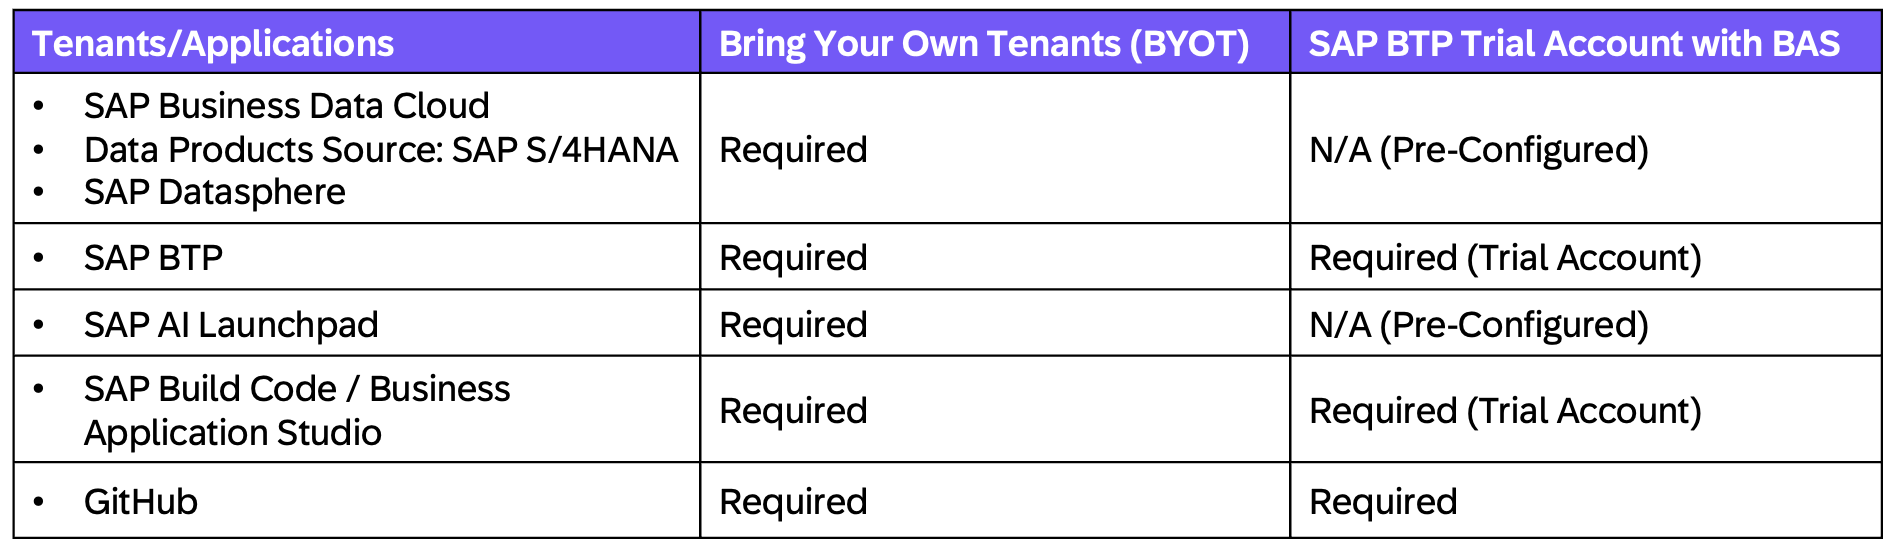
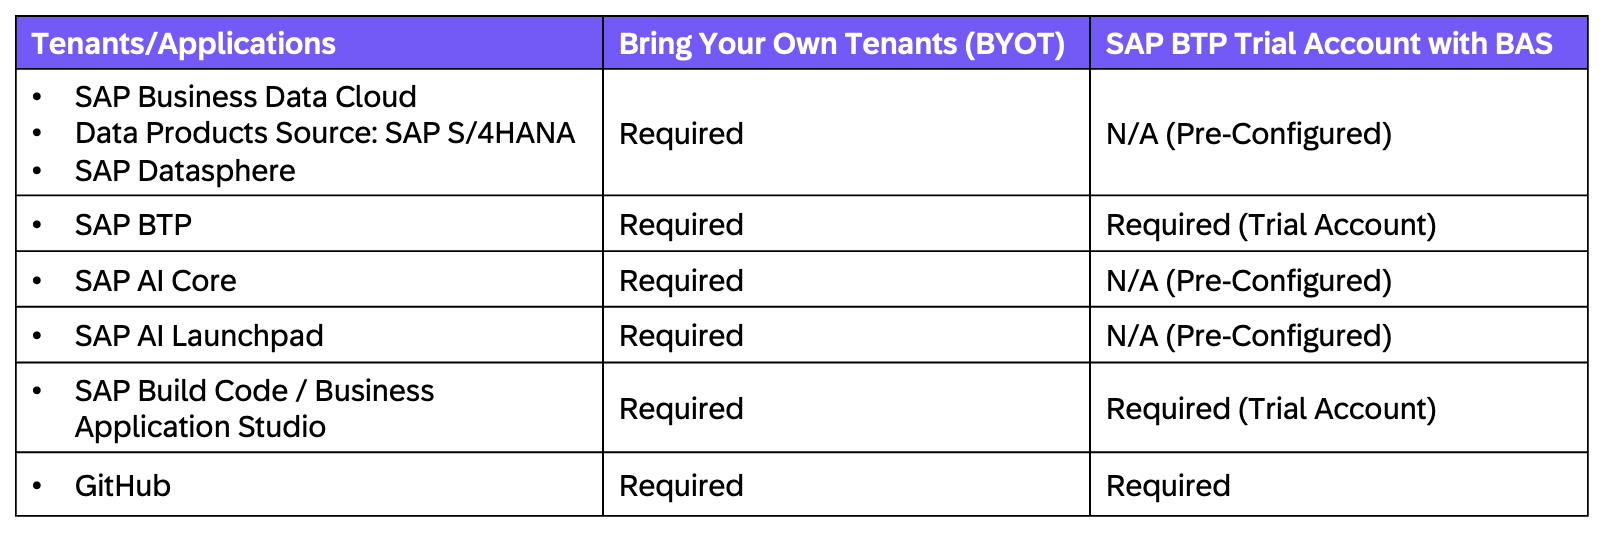
commit changes

Changed region(s): [[0.0, 0.0, 0.9963, 0.9888], [0.3736, 0.7191, 0.467, 0.809]]

diff --git a/module3_exercise_guide.md b/module3_exercise_guide.md
@@ -121,6 +121,41 @@ Before the day of the session, ensure you have access to the required applicatio
 | Business_Application_Studio_Developer | Access BAS dev spaces | Running the Jupyter notebook |
 | Dev Space: Full-Stack Cloud Application | Python runtime, terminal access | Executing notebook cells, creating venv |
 
+### 4. SAP AI Core and Service Key & Credentials
+You need credentials from SAP BTP Cockpit and AI Launchpad to configure the `.env` file.
+
+#### 4a. Get Service Key from BTP Cockpit
+
+1. Open **SAP BTP Cockpit** → navigate to your subaccount.
+2. Go to **Services → Instances and Subscriptions**.
+3. Find your **SAP AI Core** instance.
+4. Click on the instance, then click **1 key** under the Credentials column.
+
+   ![SAP AI Core Instance](images/aicore1.png)
+
+5. Click on the service key name (e.g., `aicore-key`) to view the credentials.
+6. You'll see a JSON structure — note the following fields:
+
+   ![SAP AI Core Service Key](images/aicore2.png)
+
+   | Service Key Field | Maps to `.env` Variable |
+   |---|---|
+   | `clientid` | `AICORE_CLIENT_ID` |
+   | `clientsecret` | `AICORE_CLIENT_SECRET` |
+   | `url` | `AICORE_AUTH_URL` |
+   | `serviceurls.AI_API_URL` | Base URL for `GPT5_DEPLOYMENT_URL` |
+
+#### 4b. Get Resource Group from AI Launchpad
+
+7. Open **SAP AI Launchpad**.
+8. Navigate to **Workspaces**.
+9. Note the workspace and resource group name (e.g., `default`).
+
+   ![SAP AI Core Resource Group](images/aicore3.png)
+
+> [!NOTE]
+> If you have a different resource group, use that instead of `default`.
+
 ### 4. SAP AI Launchpad and LLM Model Core Deployment
 
 A running **SAP AI Core** deployment with GPT-5 (or any model of your choice), including your deployment URL and service key (`clientid`, `clientsecret`, `url`, `AI_API_URL`) for the `.env` file.[SAP AI Launchpad User Guide](https://help.sap.com/doc/3cf0f44d0e934b329535835198aa59e0/CLOUD/en-US/04ed96d5a9864b5a9b6f2be56d396a37.pdf)
